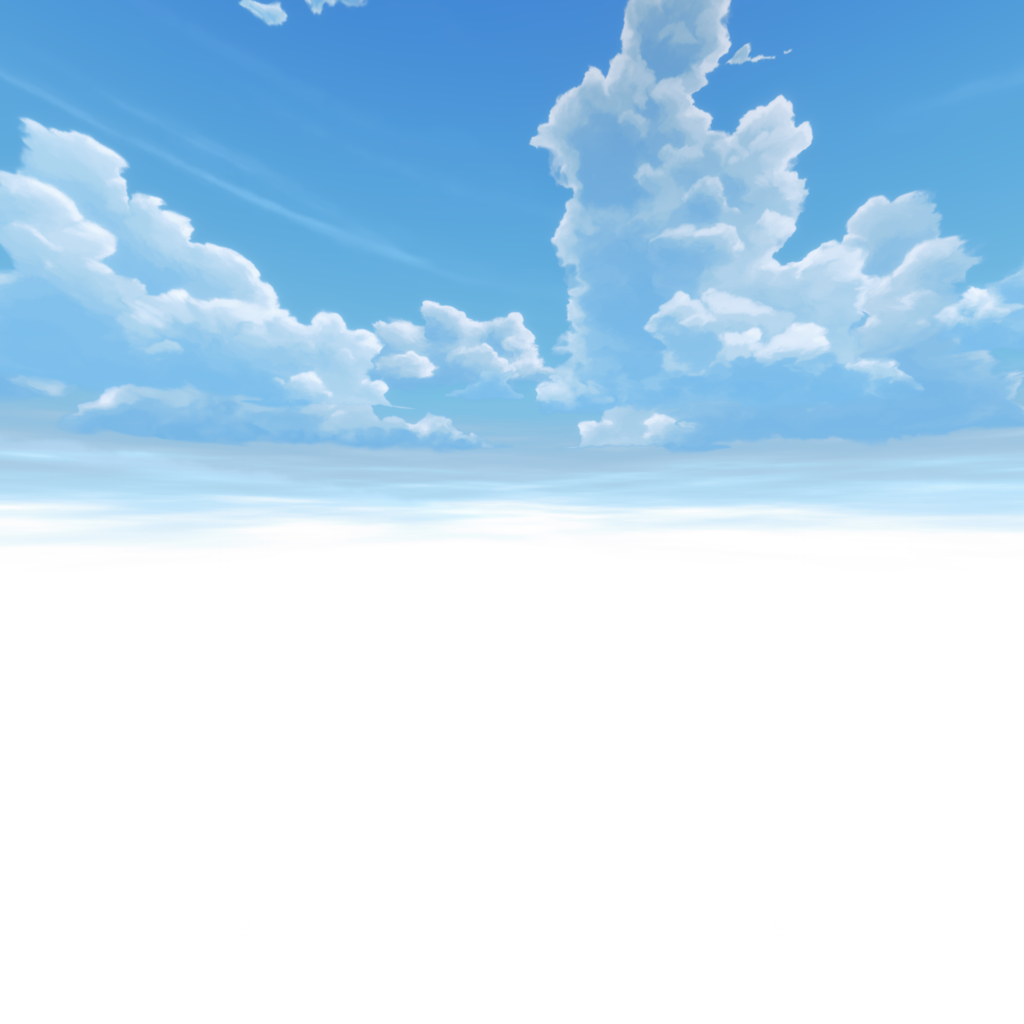
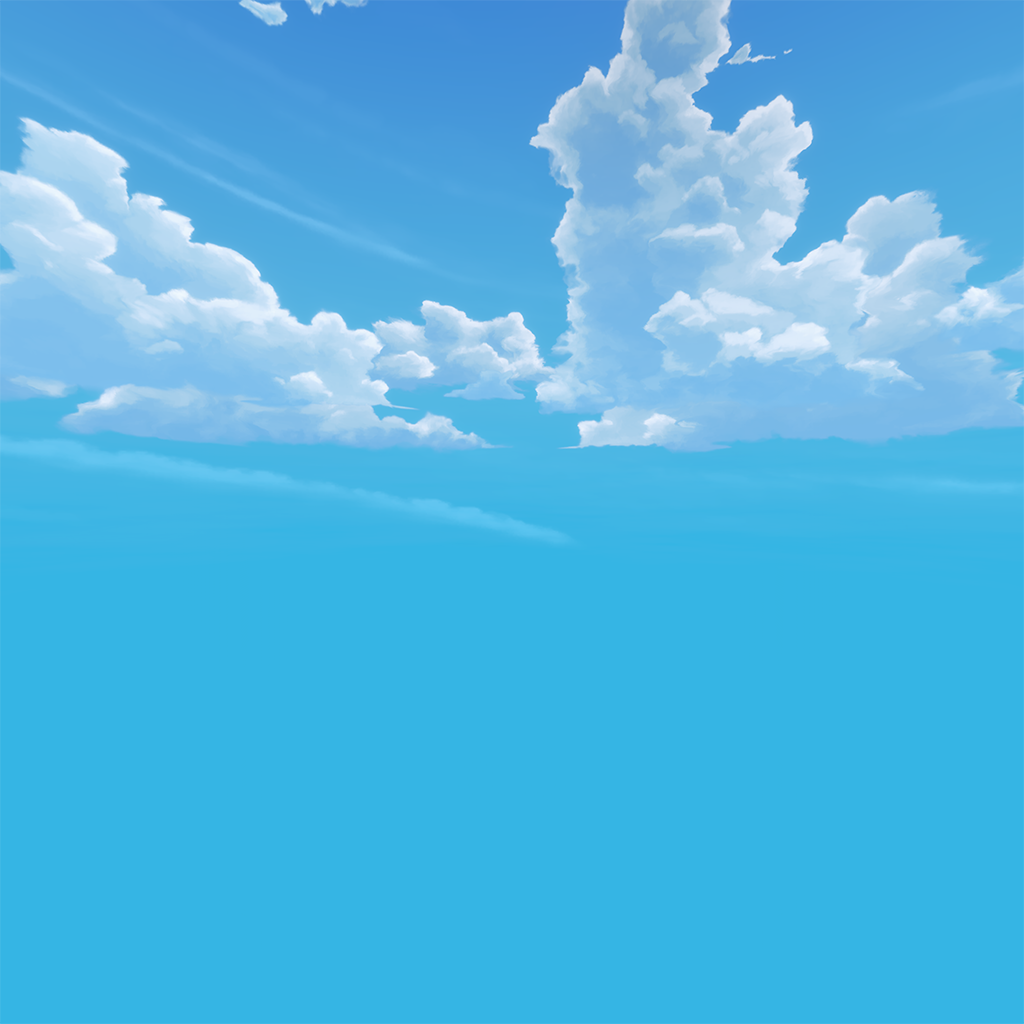
New skybox added

diff --git a/src/js/components/SkyboxOptionsSection.tsx b/src/js/components/SkyboxOptionsSection.tsx
@@ -17,7 +17,7 @@ export default function SkyboxOptionsSection({ terrainBuilderRef }: SkyboxOption
     const lastAppliedSkyboxRef = useRef<string | null>(null);
 
     // Hardcoding for now, could be dynamic later
-    const availableSkyboxes = ["partly-cloudy", "sunset", "night"];
+    const availableSkyboxes = ["partly-cloudy", "partly-cloudy-alt", "sunset", "night"];
 
     // Load saved skybox preference and set initial state
     useEffect(() => {
